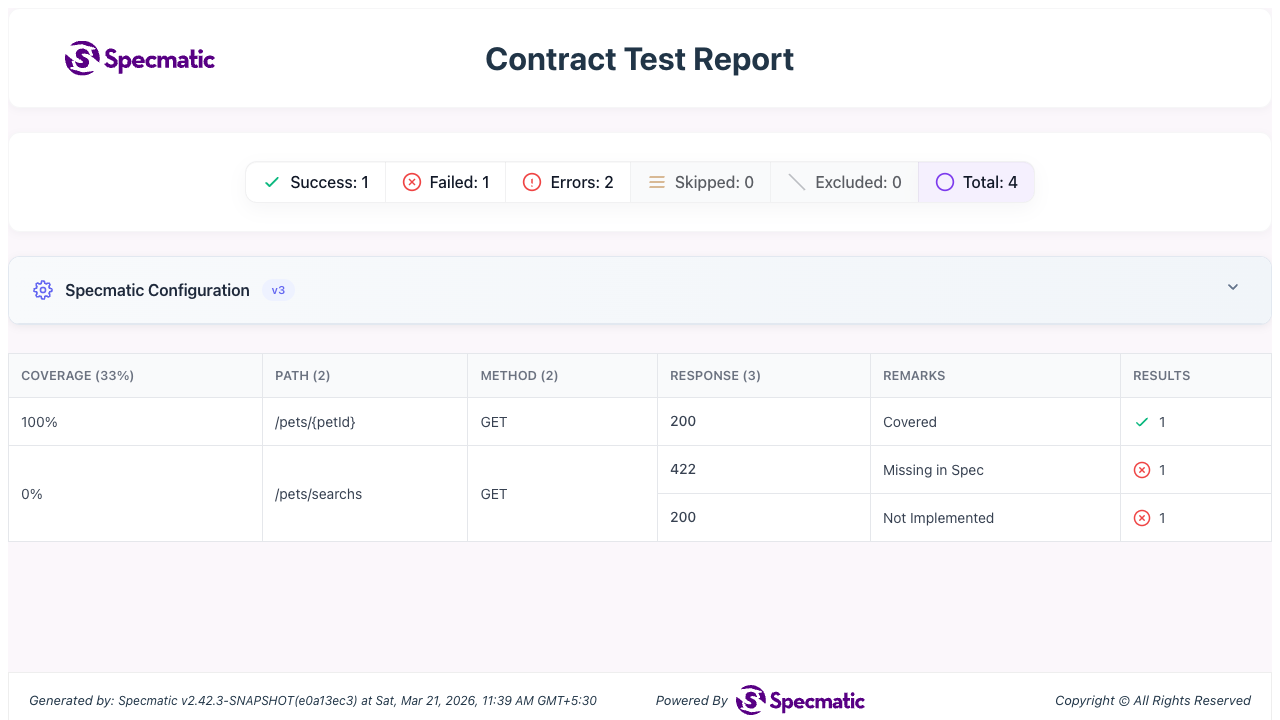
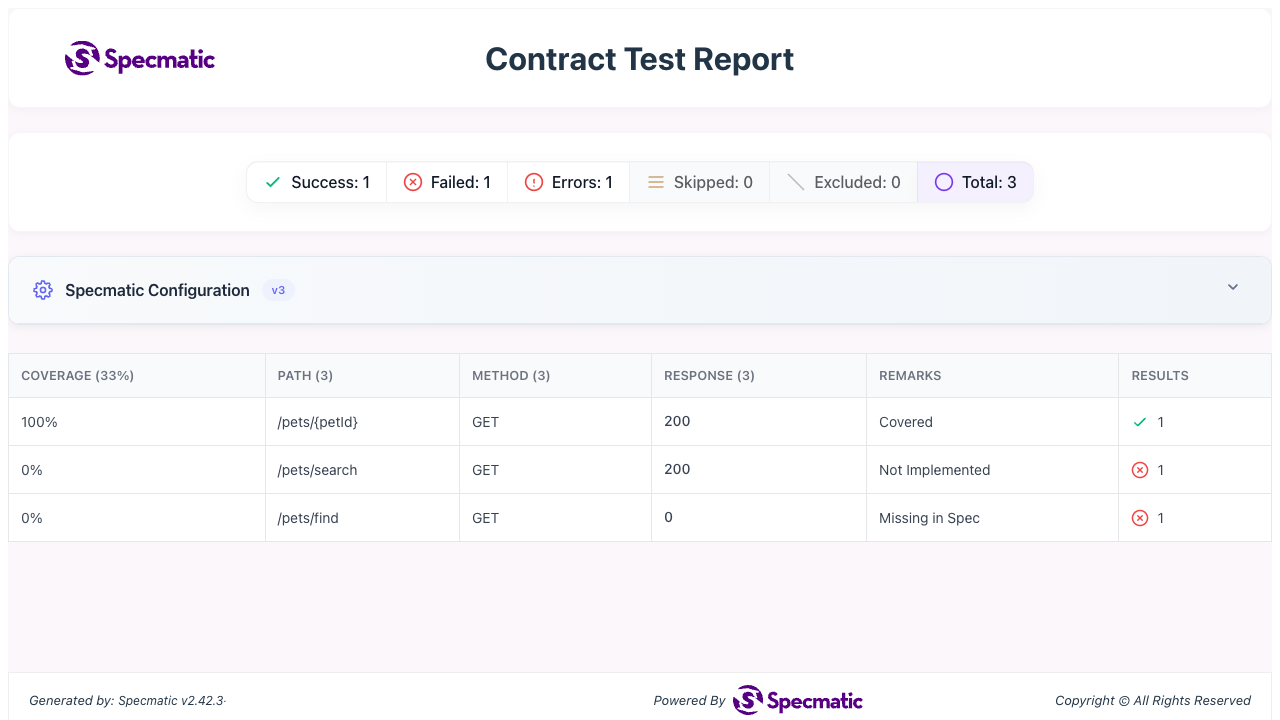
fix: rename endpoint from /pets/search to /pets/find and update documentation

diff --git a/api-coverage/service/app/main.py b/api-coverage/service/app/main.py
@@ -19,7 +19,7 @@ PETS = {
 }
 
 
-@app.get("/pets/search")
+@app.get("/pets/find")
 def search_pets(type: str = Query(...)):
     return [pet for pet in PETS.values() if pet["type"] == type]
 

diff --git a/api-coverage/README.md b/api-coverage/README.md
@@ -36,7 +36,7 @@ That is the gap this lab demonstrates.
 - `docker-compose.yaml` - runs the provider and Specmatic test runner.
 
 ## Learner task
-Fix the typo in `specs/service.yaml` by changing `GET /pets/searchs` to `GET /pets/search`.
+Fix the typo in `specs/service.yaml` by changing `GET /pets/search` to `GET /pets/find`.
 
 ## Lab Rules
 - Do not edit `service/app/main.py`.
@@ -79,10 +79,10 @@ docker compose up contract-test --build --abort-on-container-exit
 
 Expected behavior:
 - The contract test for `GET /pets/{petId}` passes.
-- The contract test for `GET /pets/searchs` fails because the application does not implement that route.
+- The contract test for `GET /pets/search` fails because the application does not implement that route.
 - Specmatic fetches the app's dynamically generated OpenAPI document from `/openapi.json`.
-- Coverage report shows `/pets/search` as `Missing In Spec`.
-- Coverage report also shows `/pets/searchs` as `Not Implemented`.
+- Coverage report shows `/pets/find` as `Missing In Spec`.
+- Coverage report also shows `/pets/search` as `Not Implemented`.
 - The run fails because API coverage is enforced with:
   - `minCoveragePercentage: 100`
   - `maxMissedOperationsInSpec: 0`
@@ -96,16 +96,18 @@ Tests run: 2, Successes: 1, Failures: 1, Errors: 0
 Expected coverage highlight:
 
 ```terminaloutput
-50%      /pets/searchs  GET   200   1   not implemented
-         /pets/searchs  GET   422   0   missing in spec
-0%       /pets/search   GET   0     0   missing in spec
+100%     /pets/{petId}  GET   200   1   covered 
+0%       /pets/search   GET   200   1   not implemented
+0%       /pets/find     GET   0     0   missing in spec
 ```
 
 Expected gate failure highlight:
 
 ```terminaloutput
 Failed the following API Coverage Report success criteria:
-Total missed endpoints count: 1 is greater than the maximum threshold of 0.
+Total API coverage: 50% is less than the specified minimum threshold of 100%.
+Total missed operations: 1 is greater than the maximum threshold of 0.
+
 ```
 
 Clean up:
@@ -116,10 +118,14 @@ docker compose down -v
 
 Also inspect the generated HTML report after the run:
 
-- Open `build/reports/specmatic/html/index.html` in your browser.
-- Review the coverage mismatch there in a more readable report format.
-- This is the dedicated API coverage report generated by Specmatic.
-- The console summary is still the most precise place to verify every row in the baseline mismatch.
+- Open `build/reports/specmatic/test/html/index.html` in your browser.
+- Review the same mismatch in the CTRF HTML report.
+- You should see `/pets/search` reported as `Not Implemented`.
+- You should also see `/pets/find` reported as `Missing in Spec`.
+
+Example baseline CTRF HTML report:
+
+![Baseline CTRF HTML report](assets/api-coverage-html-report.png)
 
 ## 2. Fix the checked-in spec
 Open `specs/service.yaml`.
@@ -127,14 +133,14 @@ Open `specs/service.yaml`.
 Find this path:
 
 ```yaml
-/pets/searchs:
+/pets/search:
   get:
 ```
 
 Change it to:
 
 ```yaml
-/pets/search:
+/pets/find:
   get:
 ```
 
@@ -155,7 +161,7 @@ Tests run: 2, Successes: 2, Failures: 0, Errors: 0
 
 Expected coverage outcome:
 - `/pets/{petId}` is `covered`
-- `/pets/search` is `covered`
+- `/pets/find` is `covered`
 - no paths remain `Missing In Spec`
 - no paths remain `Not Implemented`
 - API coverage success criteria pass
@@ -166,22 +172,15 @@ Clean up:
 docker compose down -v
 ```
 
-## Verify generated coverage artifacts
-After a run, Specmatic also generates report artifacts inside this lab folder.
-
-Inspect:
-
-```shell
-ls build/reports/specmatic
-```
+## Verify generated HTML report
+After a run, Specmatic also generates report artifacts inside this `build/reports/specmatic` folder.
 
 Important file:
-- `build/reports/specmatic/coverage_report.json`
-- `build/reports/specmatic/html/index.html`
+- `build/reports/specmatic/test/html/index.html`
 
 After you fix the spec, this JSON report should include both operations:
 - `GET /pets/{petId}`
-- `GET /pets/search`
+- `GET /pets/find`
 
 The HTML report is useful both before and after the fix:
 - before the fix, it shows the coverage mismatch in a more readable UI
@@ -222,9 +221,9 @@ In a separate browser tab, open:
 - [FastAPI Swagger UI](http://127.0.0.1:8080/docs)
 
 What to observe before fixing the checked-in spec:
-- Studio tests only the checked-in `service.yaml`, so it runs the typoed `/pets/searchs` scenario from the checked-in spec.
-- The FastAPI Swagger UI shows that the app also publishes `GET /pets/search`.
-- That mismatch is why the CLI coverage report marks `/pets/search` as `Missing In Spec` and `/pets/searchs` as `Not Implemented`.
+- Studio tests only the checked-in `service.yaml`, so it runs the `/pets/search` scenario from the given spec.
+- The FastAPI Swagger UI shows that the app actually publishes `GET /pets/find`.
+- That mismatch is why the coverage report marks `/pets/find` as `Missing In Spec` and `/pets/search` as `Not Implemented`.
 
 Stop Studio with `Ctrl+C`, then stop the provider:
 
@@ -234,19 +233,17 @@ docker compose down -v
 
 ## Pass criteria
 - Baseline run has `1` passing test and `1` failing test.
-- Coverage report shows `/pets/search` as `Missing In Spec`.
-- Coverage report shows `/pets/searchs` as `Not Implemented`.
-- Coverage report also shows the unexpected `422` response on `/pets/searchs` as `Missing In Spec`.
+- Coverage report shows `/pets/find` as `Missing In Spec`.
+- Coverage report shows `/pets/search` as `Not Implemented`.
 - After fixing the typo in `specs/service.yaml`, the rerun passes with `2/2` successful tests and no missed or unimplemented paths.
 
 ## Troubleshooting
 - If the test runner starts before the provider is ready, rerun after `docker compose down -v`.
 - If results look stale, use `--build` exactly as documented.
-- If you do not see `/pets/search` in Swagger UI, confirm the provider is running on `127.0.0.1:8080`.
-- If the first run does not fail as expected, confirm the checked-in spec still says `/pets/searchs` and not `/pets/search`.
+- If you do not see `/pets/find` in Swagger UI, confirm the provider is running on `127.0.0.1:8080`.
+- If the first run does not fail as expected, confirm the checked-in spec still says `/pets/search` and not `/pets/find`.
 
 ## What you learned
 - Contract tests are generated only from the checked-in spec.
 - API coverage can enrich those results using routes discovered from the running application.
-- With `swaggerUrl`, Specmatic can fetch the app's published OpenAPI document and identify implemented routes missing from the checked-in spec.
-- Current documentation emphasizes actuator-based discovery, but the current implementation also supports Swagger/OpenAPI fetch for this purpose.
+- With `swaggerUrl`, Specmatic can dynamically fetch the app's generated OpenAPI document and identify implemented routes missing from the spec.
